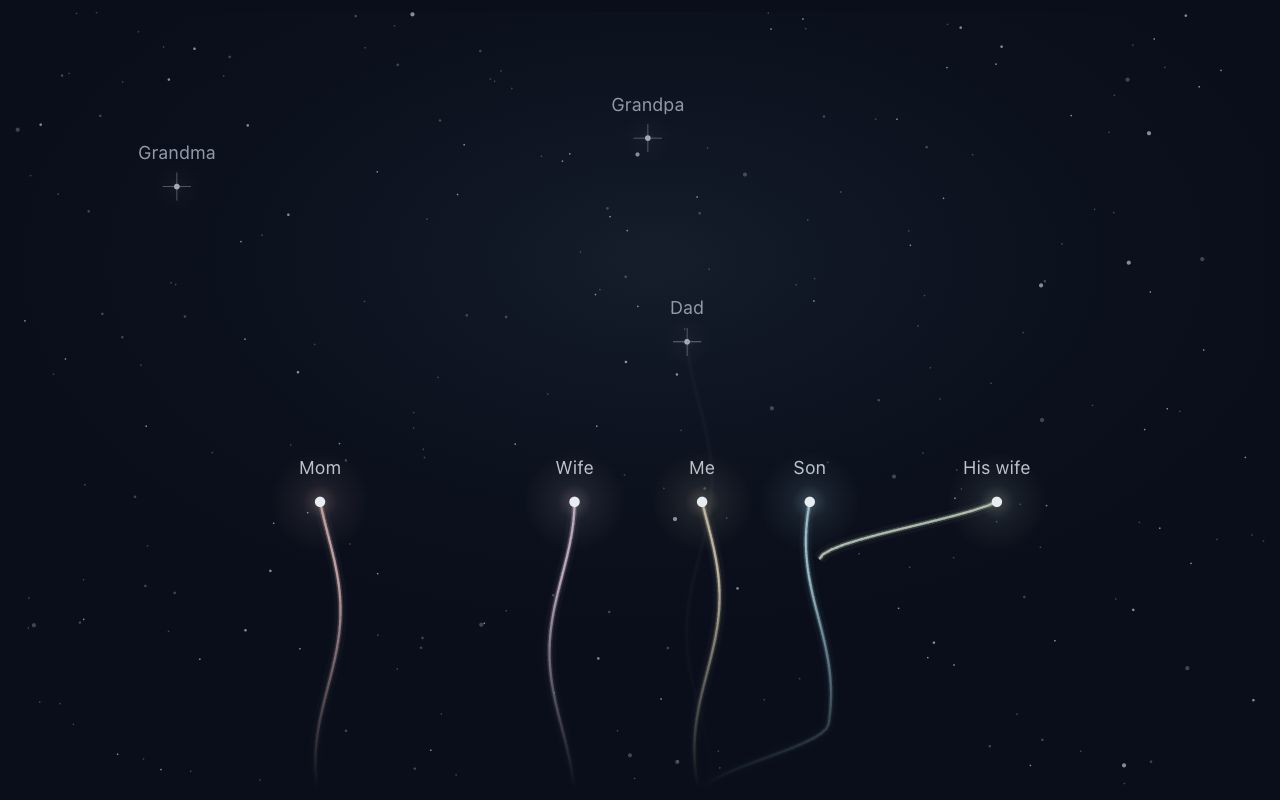
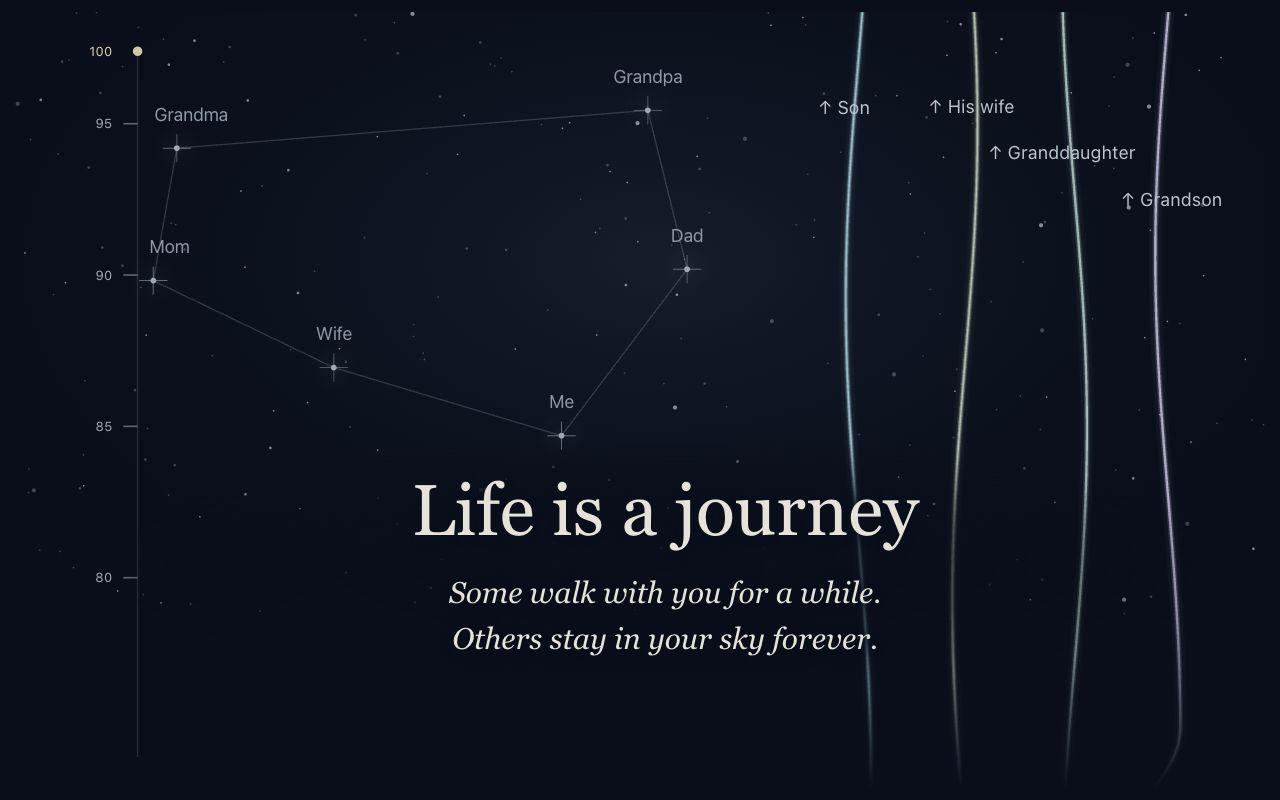
Restore scrolling age axis and in-scene story text (#115)

diff --git a/src/features/constellation/Sky.tsx b/src/features/constellation/Sky.tsx
@@ -1,5 +1,5 @@
 import type { Person } from './story'
-import { personAppearance, smooth, starPosition, storyAge, trailPath } from './story'
+import { ageAxis, personAppearance, smooth, starPosition, storyAge, trailPath } from './story'
 
 // Seeded points avoid a different sky on every render and need no image assets.
 const stars = Array.from({ length: 240 }, (_, i) => ({
@@ -8,9 +8,10 @@ const stars = Array.from({ length: 240 }, (_, i) => ({
   r: i % 13 === 0 ? 1.3 : i % 4 === 0 ? 0.8 : 0.5,
 }))
 
-export default function Sky({ people, progress, width = 800, viewHeight = 800, id = 'sky', title = 'Family lifelines becoming a constellation' }: { people: Person[], progress: number, width?: number, viewHeight?: number, id?: string, title?: string }) {
-  const verticalScale = viewHeight / 800
+export default function Sky({ people, progress, width = 800, viewHeight = 800, sceneScale = 1, id = 'sky', title = 'Family lifelines becoming a constellation' }: { people: Person[], progress: number, width?: number, viewHeight?: number, sceneScale?: number, id?: string, title?: string }) {
+  const verticalScale = viewHeight * sceneScale / 800
   const fontSize = Math.min(28, 18 * 800 / width)
+  const axis = ageAxis(progress)
   const age = storyAge(progress)
   const constellation = smooth((progress - 0.9) / 0.1)
   const positions = people.map((p, i) => { const point = starPosition(p, i, people.length, progress, people); return { ...point, y: point.y * verticalScale } })
@@ -29,16 +30,16 @@ export default function Sky({ people, progress, width = 800, viewHeight = 800, i
     const passed = person.end === null && positions[i].y < 65
     if (passed) lines[0] = '↑ ' + lines[0]
     const width = Math.max(...lines.map(line => line.length)) * fontSize * .6
-    const x = Math.max(width / 2 + 10, Math.min(790 - width / 2, positions[i].x))
+    const x = Math.max(width / 2 + 90, Math.min(790 - width / 2, positions[i].x))
     const lineHeight = fontSize * .95
     const height = fontSize + (lines.length - 1) * lineHeight + 6
     const fits = (cx: number, cy: number) => {
       const box = { left: cx - width / 2, right: cx + width / 2, top: cy - fontSize, bottom: cy + height - fontSize }
-      return box.top >= 25 && box.bottom <= viewHeight - 25 && !labelBoxes.some(b => box.left < b.right + 12 && box.right > b.left - 12 && box.top < b.bottom + 10 && box.bottom > b.top - 10)
+      return box.top >= 25 && box.bottom <= viewHeight * sceneScale - 25 && !labelBoxes.some(b => box.left < b.right + 12 && box.right > b.left - 12 && box.top < b.bottom + 10 && box.bottom > b.top - 10)
     }
     const preferredY = passed ? 35 + (Math.max(0, living.findIndex(p => p.id === person.id)) % 4) * (fontSize + 18) : positions[i].y - (fontSize + 6)
     const candidates = Array.from({ length: 12 }, (_, n) => ({ x, y: preferredY - n * 60 }))
-    const grid = Array.from({ length: Math.max(70, Math.floor(viewHeight / 65) * 7) }, (_, n) => ({ x: Math.max(width / 2 + 10, Math.min(790 - width / 2, 70 + n % 7 * 110)), y: 65 + Math.floor(n / 7) * 65 }))
+    const grid = Array.from({ length: Math.max(70, Math.floor(viewHeight / 65) * 7) }, (_, n) => ({ x: Math.max(width / 2 + 90, Math.min(790 - width / 2, 90 + n % 7 * 110)), y: 65 + Math.floor(n / 7) * 65 }))
       .sort((a, b) => Math.hypot(a.x - x, a.y - preferredY) - Math.hypot(b.x - x, b.y - preferredY))
     const chosen = [...candidates, ...grid].find(candidate => fits(candidate.x, candidate.y)) ?? { x, y: 65 }
     const y = chosen.y
@@ -56,6 +57,15 @@ export default function Sky({ people, progress, width = 800, viewHeight = 800, i
     </defs>
     <ellipse cx="410" cy={viewHeight * .32} rx="480" ry={viewHeight * .55} fill={`url(#${id}-nebula)`} />
     <g fill="#d4deed">{stars.map((s, i) => <circle key={i} cx={s.x} cy={s.y * verticalScale} r={s.r} opacity={i % 3 === 0 ? 0.6 : 0.26} />)}</g>
+    <g className="cl-age-axis" opacity={axis.opacity} fontFamily="system-ui, sans-serif" fontSize={Math.min(30, 13 * 800 / width)} fill="#a4afbd">
+      <path d={`M80 25V${viewHeight * .96}`} stroke="#8391a3" strokeOpacity=".25" strokeWidth=".8" />
+      {axis.ticks.map(tick => <g key={tick.age} opacity={tick.age === Math.floor(axis.age) || Math.abs(tick.y - axis.y) < 24 ? 0 : 1}>
+        <path d={`M71 ${tick.y * verticalScale}h9`} stroke="#a4afbd" strokeOpacity=".55" />
+        <text x="64" y={tick.y * verticalScale} dy=".35em" textAnchor="end">{tick.age}</text>
+      </g>)}
+      <circle cx="80" cy={Math.max(25, axis.y * verticalScale)} r="3" fill="#d4c5a4" />
+      <text className="cl-current-age" x="64" y={Math.max(25, axis.y * verticalScale)} dy=".35em" textAnchor="end" fill="#e1d2af">{Math.floor(axis.age)}</text>
+    </g>
     <g mask={`url(#${id}-mask)`} fill="none">
       {people.map((p, i) => <g key={p.id} stroke={appearances[i].color} opacity={positions[i].opacity * (p.end === null ? 1 : (1 - constellation) * (p.exit === 'fade' ? 1 : 1 - smooth((age - p.end) / 8)))}>
         <path d={paths[i]} strokeWidth="8" opacity=".04" />

diff --git a/src/features/constellation/story.ts b/src/features/constellation/story.ts
@@ -10,6 +10,7 @@ export interface Person {
 }
 
 export const DEFAULT_DURATION = 48
+export const YEAR_SPACING = 40
 export const MAX_PEOPLE = 16
 export const COLORS = ['#c9b9f6', '#bedddd', '#ff9c8e', '#90baff', '#f3b4d1', '#f7ce85', '#81e0e8', '#c1dea3', '#aabace', '#c4c3a4', '#a6d5bf', '#d8b9ed', '#f0bf9f', '#9dcad9', '#c4d5a5', '#d6b4bf']
 export const SAMPLE: Person[] = [
@@ -42,6 +43,26 @@ export const clamp = (value: number, min = 0, max = 1) => Math.max(min, Math.min
 export const smooth = (value: number) => { const t = clamp(value); return t * t * (3 - 2 * t) }
 export const storyAge = (progress: number) => clamp(progress / .9) * 100
 export const chapterAt = (progress: number) => CHAPTERS.reduce((index, chapter, i) => progress >= chapter.at ? i : index, 0)
+
+export function ageAxis(progress: number) {
+  const age = storyAge(progress)
+  const onward = smooth((progress - .72) / .28)
+  const y = 505 + (-85 - 505) * onward
+  const ticks = Array.from({ length: 25 }, (_, index) => index * 5).map(value => ({ age: value, y: y + (age - value) * YEAR_SPACING })).filter(tick => tick.y > 30 && tick.y < 770)
+  return { age, y, ticks, opacity: 1 }
+}
+
+export function storyMessage(progress: number) {
+  const messages = [
+    { from: .16, to: .23, title: '', lines: ['Some become stars in our sky.'] },
+    { from: .24, to: .40, title: '', lines: ['Some walk with us for a while.'] },
+    { from: .72, to: .88, title: '', lines: ['Their story keeps going.'] },
+    { from: .90, to: 2, title: 'Life is a journey', lines: ['Some walk with you for a while.', 'Others stay in your sky forever.'] },
+  ]
+  const message = messages.find(item => progress >= item.from && progress < item.to)
+  if (!message) return null
+  return { ...message, opacity: smooth((progress - message.from) / .02) * (1 - smooth((progress - message.to + .02) / .02)) }
+}
 const laneX = (person: Person, index: number, count: number) => 45 + (person.lane ?? (.06 + index * .88 / Math.max(1, count - 1))) * 710
 
 function pathX(person: Person, index: number, count: number, age: number, people?: Person[]) {
@@ -87,7 +108,7 @@ export function starPosition(person: Person, index: number, count: number, progr
   const age = storyAge(progress)
   const end = Math.min(age, person.end ?? 100)
   let x = pathX(person, index, count, end, people)
-  let y = 505
+  let y = person.exit === 'fade' ? 505 + (age - end) * YEAR_SPACING : ageAxis(Math.min(age, person.end ?? 100) / 100 * .9).y
   const blend = smooth((progress - .9) / .1)
   const remembered = people?.filter(p => p.exit !== 'fade' && p.end !== null) ?? []
   const rank = remembered.findIndex(p => p.id === person.id)
@@ -100,14 +121,14 @@ export function starPosition(person: Person, index: number, count: number, progr
   const finalX = continuing ? (remembered.length ? 545 : 90) + livingRank * ((remembered.length ? 195 : 620) / Math.max(1, living.length - 1)) : final[0]
   // Younger lives travel well beyond the remembered generation, through the
   // upper edge of the frame, instead of stopping as another set of stars.
-  const finalY = continuing ? -85 - (livingRank % 4) * 55 : final[1]
+  const finalY = continuing ? -85 : final[1]
   if (person.end !== null && person.exit !== 'fade') {
     const settle = smooth((age - person.end) / 5)
     x += (finalX - x) * settle
     y += (finalY - y) * settle
   }
   const morph = person.exit === 'fade' ? 0 : continuing ? smooth((progress - .72) / .28) : blend
-  return { x: x + (finalX - x) * morph, y: y + (finalY - y) * morph, visible: personOpacity(person, progress) > 0, opacity: personOpacity(person, progress) }
+  return { x: x + (finalX - x) * morph, y: person.end === null || age < person.end ? ageAxis(progress).y : y + (finalY - y) * morph, visible: personOpacity(person, progress) > 0, opacity: personOpacity(person, progress) }
 }
 
 export function trailPath(person: Person, index: number, count: number, progress: number, people?: Person[], verticalScale = 1) {
@@ -118,7 +139,7 @@ export function trailPath(person: Person, index: number, count: number, progress
   const headX = pathX(person, index, count, end, people)
   const continuing = person.end === null
   const perspective = continuing ? smooth((progress - .72) / .28) : 0
-  const pitch = 10 + (Math.max(10, (900 - head.y) / Math.max(1, end - person.start)) - 10) * perspective
+  const pitch = YEAR_SPACING + (Math.max(YEAR_SPACING, (900 - head.y) / Math.max(1, end - person.start)) - YEAR_SPACING) * perspective
   const points = []
   for (let t = Math.max(person.start, end - (continuing ? 100 : 48)); t < end; t += .5) {
     points.push(`${pathX(person, index, count, t, people) + head.x - headX},${(head.y + (end - t) * pitch) * verticalScale}`)

diff --git a/tests/constellation/story.test.ts b/tests/constellation/story.test.ts
@@ -1,6 +1,6 @@
 import { test } from 'node:test'
 import assert from 'node:assert/strict'
-import { CHAPTERS, DEFAULT_DURATION, MAX_PEOPLE, SAMPLE, chapterAt, personAppearance, personOpacity, readPeople, restorePeople, starPosition, storyAge, trailPath } from '../../src/features/constellation/story.ts'
+import { CHAPTERS, DEFAULT_DURATION, MAX_PEOPLE, SAMPLE, YEAR_SPACING, ageAxis, chapterAt, personAppearance, personOpacity, readPeople, restorePeople, starPosition, storyAge, storyMessage, trailPath } from '../../src/features/constellation/story.ts'
 
 const person = (id: string) => SAMPLE.find(p => p.id === id)!
 const atAge = (age: number) => age / 100 * .9
@@ -113,4 +113,37 @@ test('one-person and maximum-size skies remain finite through the reveal', () =>
       assert.ok(Number.isFinite(position.x) && Number.isFinite(position.y))
     }
   }
+})
+
+
+test('the age y-axis stays present throughout the story and ending, with a local five-year window', () => {
+  for (const progress of [0, .1, .3, .6, .8, .9, .95, 1]) {
+    const axis = ageAxis(progress)
+    assert.equal(axis.opacity, 1)
+    assert.equal(axis.age, storyAge(progress))
+    assert.ok(axis.ticks.length >= 2 && axis.ticks.length <= 5)
+    assert.ok(axis.ticks.every(tick => tick.age % 5 === 0))
+    assert.ok(Math.max(...axis.ticks.map(tick => tick.age)) - Math.min(...axis.ticks.map(tick => tick.age)) <= 20)
+  }
+})
+
+test('every moving family light is aligned with the current age on the y-axis', () => {
+  for (const progress of [.05, .3, .6, .73, .8, .9, 1]) {
+    const axis = ageAxis(progress)
+    SAMPLE.forEach((p, index) => {
+      if (p.exit !== 'fade' && storyAge(progress) >= p.start && (p.end === null || storyAge(progress) < p.end)) {
+        assert.ok(Math.abs(starPosition(p, index, SAMPLE.length, progress, SAMPLE).y - axis.y) < 1e-7)
+      }
+    })
+    axis.ticks.forEach(tick => assert.ok(Math.abs(tick.y - (axis.y + (axis.age - tick.age) * YEAR_SPACING)) < 1e-7))
+  }
+})
+
+test('the short explanation returns inside the animation, including the reference ending', () => {
+  assert.equal(storyMessage(.1), null)
+  assert.match(storyMessage(.20)!.lines[0], /stars/)
+  assert.match(storyMessage(.30)!.lines[0], /while/)
+  assert.equal(storyMessage(.95)!.title, 'Life is a journey')
+  assert.deepEqual(storyMessage(1)!.lines, ['Some walk with you for a while.', 'Others stay in your sky forever.'])
+  assert.equal(storyMessage(.95)!.opacity, 1)
 })

diff --git a/src/features/constellation/Constellation.tsx b/src/features/constellation/Constellation.tsx
@@ -1,6 +1,6 @@
 import { useEffect, useRef, useState } from 'react'
 import Sky from './Sky'
-import { DEFAULT_DURATION, SAMPLE, clamp, restorePeople, smooth } from './story'
+import { DEFAULT_DURATION, SAMPLE, clamp, restorePeople, smooth, storyMessage } from './story'
 import './constellation.css'
 
 function loadPeople() {
@@ -12,6 +12,9 @@ export default function Constellation() {
   const [frame, setFrame] = useState({ progress: 0, opacity: 0 })
   const [size, setSize] = useState({ width: window.innerWidth, height: window.innerHeight })
   const root = useRef<HTMLElement>(null)
+  const message = storyMessage(frame.progress)
+  const sceneScale = 1 - .22 * smooth((frame.progress - .85) / .08)
+  const messageGap = size.height < 500 && size.width > 700 ? 18 : Math.min(42, Math.max(24, size.height * .04))
 
   useEffect(() => {
     const previousTitle = document.title
@@ -42,7 +45,11 @@ export default function Constellation() {
 
   return <main ref={root} className="cl-app" aria-label="Animated family lifelines" data-progress={frame.progress.toFixed(3)}>
     <div className="cl-canvas" style={{ opacity: frame.opacity }}>
-      <Sky people={people} progress={frame.progress} width={size.width} viewHeight={800 * size.height / size.width} />
+      <Sky people={people} progress={frame.progress} width={size.width} viewHeight={800 * size.height / size.width} sceneScale={sceneScale} />
+      {message && <div className={`cl-story-message ${message.title ? 'cl-story-ending' : ''}`} style={{ opacity: message.opacity, top: message.title ? `calc(${70 * sceneScale}% + ${messageGap}px)` : undefined }}>
+        {message.title && <div className="cl-story-title">{message.title}</div>}
+        {message.lines.map(line => <div className="cl-story-sentence" key={line}>{line}</div>)}
+      </div>}
     </div>
   </main>
 }

diff --git a/src/content/projects/constellation.ts b/src/content/projects/constellation.ts
@@ -3,13 +3,13 @@ import type { ProjectMeta } from '@/types'
 const project: ProjectMeta = {
   slug: 'constellation',
   title: 'The light we leave',
-  description: 'A full-screen animated life. Friends drift in and out, a family grows, and younger generations carry on beneath the stars we leave.',
+  description: 'An animated life traced against a scrolling age axis. Friends drift away, a family grows, and younger generations carry on.',
   tags: ['Animation', 'SVG', 'Creative coding'],
   liveUrl: '/experiments/constellation',
   screenshot: '/projects/constellation/preview.jpg',
   longDescription: `An animated sky about family, friendship, and the lives that continue after ours. It begins automatically: glowing paths meet, friendships drift away, and a family grows through a son, his wife, and grandchildren.
 
-Remembered family members become smaller, quieter silver stars. Younger generations keep travelling through the sky. The page contains only the animation and names, and the sequence loops with a soft fade.
+Remembered family members become smaller, quieter silver stars. Younger generations keep travelling through the sky. A scrolling age axis follows the lives, with five-year marks and the current age highlighted. Brief messages appear within the sky, ending with “Life is a journey.” The sequence loops with a soft fade.
 
 The sample is fictional. Inspired by the family lifeline animation shared by @creaconbruno on Instagram; this version uses original code and rendering.`,
 }

diff --git a/src/features/constellation/constellation.css b/src/features/constellation/constellation.css
@@ -8,5 +8,25 @@
   background: #080e1b;
   color-scheme: dark;
 }
-.cl-canvas { width: 100%; height: 100%; }
+.cl-canvas { position: relative; width: 100%; height: 100%; }
 .cl-sky-svg { display: block; width: 100%; height: 100%; overflow: hidden; }
+.cl-story-message {
+  position: absolute;
+  left: 12%;
+  right: 8%;
+  bottom: 13%;
+  pointer-events: none;
+  isolation: isolate;
+  text-align: center;
+  color: #e5e3d8;
+  font: italic clamp(15px, 3.4vw, 30px)/1.55 Georgia, 'Times New Roman', serif;
+  text-shadow: 0 2px 14px #080e1b, 0 0 28px #080e1b, 0 0 10px #080e1b;
+}
+.cl-story-message::before { content: ''; position: absolute; inset: -24px -32px; z-index: -1; background: radial-gradient(ellipse, #080e1bed, #080e1b99 45%, transparent 75%); }
+.cl-story-ending { bottom: auto; }
+.cl-story-title { font-size: clamp(28px, 8vw, 72px); font-style: normal; line-height: 1.2; margin-bottom: 16px; }
+@media (max-height: 500px) and (min-width: 701px) {
+  .cl-story-message { left: 18%; right: 18%; bottom: 7%; font-size: 15px; line-height: 1.4; }
+  .cl-story-ending { bottom: auto; font-size: 13px; line-height: 1.3; }
+  .cl-story-title { font-size: 25px; margin-bottom: 6px; }
+}

diff --git a/docs/constellation-design.md b/docs/constellation-design.md
@@ -1,37 +1,47 @@
 # The light we leave
 
-A full-screen animated sky. The page contains only stars, lifelines, and people's
-names. There is no banner, narrative column, timeline, editor, button, caption,
-or loading text. Animation starts automatically on page load.
+A full-screen animated sky with lifelines, names, a scrolling age y-axis, and
+brief in-scene story text. Animation starts automatically on page load.
+There is no banner, narrative sidebar, playback timeline, editor, or button.
+
+## Essential story content
+
+The LEFT age y-axis is core content. It must never be removed when simplifying
+page chrome. Show a moving window of roughly twenty years, five-year ticks, and
+a highlighted current age aligned with every active lifeline. Do not display
+the entire lifetime as a static scale. Keep the axis visible through the ending.
+
+Short messages appear within the animation, one at a time. The final
+constellation leaves room below it for the reference's closing message:
+
+> Life is a journey
+>
+> Some walk with you for a while.
+> Others stay in your sky forever.
 
 ## Sequence
 
 The 48-second fictional life includes parents and grandparents, a childhood
 friend (ages 5–28) and college friends who drift away, a wife, a son, his wife,
-and two grandchildren. Friendships fade out without becoming memorial stars.
-Remembered family forms a subdued constellation. Younger relatives move past
-that generation and through the upper edge of the frame, with their continuing
-trails spanning the sky and small upward name tags.
+and two grandchildren. Friendships fade without becoming memorial stars.
+Remembered family forms a subdued constellation. Younger relatives continue
+past that generation and through the upper edge, leaving trails and upward
+name tags. Their moving heads remain aligned with the same chronological age.
 
-Remembered stars lose their original color over four narrative years, settle
-into neutral silver, shrink, and lose most of their halo. Labels remain readable
-and neutral. Living colors are softened. The background is a quiet midnight sky.
+Remembered stars lose color over four narrative years, settle into neutral
+silver, shrink, and lose most of their halo. Labels remain neutral and readable.
+Living colors are softened against a quiet midnight sky.
 
-The ending holds briefly, fades out, and loops with a soft fade-in. Time pauses
-while the document is hidden and resumes on return. Resizing changes the SVG's
-coordinate height, preserving circles and text rather than stretching a square
-image. Phone safe areas are reserved without introducing visible chrome.
+The ending holds briefly, fades, and loops. Time pauses while the document is
+hidden. Resizing changes SVG coordinate height, preserving circles and text.
+Phone safe areas are reserved without visible chrome.
 
 ## Data and later music
 
-Existing browser-local family data is preserved and read; the public animation
-has no editing interface. The sample lives in `story.ts`. No personal data or
-media is uploaded. The exact old sample upgrades automatically; customized
-legacy names and ages remain intact.
+Existing browser-local family data is preserved. The public animation has no
+editor. The sample in `story.ts` is fictional; no personal data is uploaded.
+The exact old sample upgrades automatically; custom legacy data remains intact.
 
-A future song can be integrated as an asset. There is no audio picker or other
-music UI on the clean page. No song service has been contacted.
-
-The visual concept is inspired by the family-lifeline reference supplied by the
-user, credited to @creaconbruno on the project's detail page. Code and rendering
-are original. See `constellation-review.md` for verification boundaries.
+A future song can be integrated as an asset. No song service has been contacted.
+The concept is inspired by the user's @creaconbruno Instagram reference,
+credited on the project detail page. Code and rendering are original.

diff --git a/docs/constellation-review.md b/docs/constellation-review.md
@@ -2,35 +2,31 @@
 
 ## Current experience
 
-The animation route contains only a sky, lifelines, stars, and people's names.
-Header, narrative copy, timeline, controls, editor, captions, and loading prose
-have been removed. It starts automatically, holds the ending, fades, and loops.
-
-Remembered stars shrink and desaturate. Continuing relatives travel through the
-upper frame while their trails remain visible. SVG coordinate height adapts to
-the viewport without stretching circles or text.
+Autoplaying sky with names, lifelines, a LEFT scrolling age y-axis, and brief
+in-scene explanation. Five-year marks and the highlighted current age remain
+visible. Active family heads align with the current-age plane. The final
+constellation has the reference's title and two italic lines beneath it.
+There is no page banner, sidebar, bottom playback timeline, or control UI.
 
 ## Checks performed
 
-- Local browser: automatic progress after reload, natural looping, and zero
-  buttons, inputs, selects, navigation, headers, footers, headings, or paragraphs
-  in the animation page. Visible text consists only of people's names.
-- Visual review at 1280 × 800 desktop, 390 × 844 phone, 320 × 740 narrow phone,
-  and 844 × 390 short landscape. Resize/orientation changes retained playback.
-  No page overflow at the measured sizes.
+- Actual local browser animation: visible age ticks, current-age highlight,
+  friendship explanation, and final title/text. No buttons or editing controls.
+- Visually reviewed ending at 1280 × 800 desktop, 390 × 844 phone,
+  320 × 740 narrow phone, and 844 × 390 landscape. Text fits beneath the
+  constellation, axis numbers remain visible, and ongoing family trails pass
+  upward. Resizing retained playback without page overflow.
 - Simulated safe areas: 44 px top, 34 px bottom, 24 px left/right at 320 × 740.
-  Main bounds matched the viewport and the SVG adapted to its content box.
-  The temporary override was removed; shipped CSS uses environment safe insets.
-- Observed friendship entry, disappearing friends, muted memorial stars, younger
-  generations, and continuing paths. No captured browser warnings/errors.
-- Label contrast: neutral memorial labels are 5.09:1 against the brightest
-  nominal nebula color, 6.67:1 against the base sky.
-- Eleven model tests passed locally and on home-mini/home-m1. TypeScript, Vite
-  production bundle, and HTML-shell generation passed on the home workers.
-- Current screenshots were saved in `/tmp/constellation-distance-review/`.
-  The project preview is an actual capture of the animation-only page.
+  Axis and explanation remained visible; measured horizontal overflow was false.
+  Temporary override removed. Shipped CSS uses environment safe insets.
+- Fourteen model tests passed locally and on home-m1, covering age ticks,
+  lifeline alignment, ending explanation, friends, continuing generations,
+  subdued memorial stars, path continuity, and saved-data migration.
+- TypeScript, production Vite build, and SEO shell generation passed on home-m1.
+  Final repository CI covers the final rendering/style refinements.
+- Representative actual browser captures: `/tmp/constellation-axis-review/`.
+  Project preview is the desktop ending capture including the age axis.
 
-Final repository CI and live deployment results are reported in the chat.
-Physical iPhone/Safari rendering and real device safe areas remain unverified.
-No song has been created or added. The removed editor and audio-picker checks
-from earlier versions are not claims about the current interface.
+Final CI and live deployment are checked separately in the chat. Physical
+phone/Safari behavior and real device safe areas remain unverified.
+No song has been created or added.
